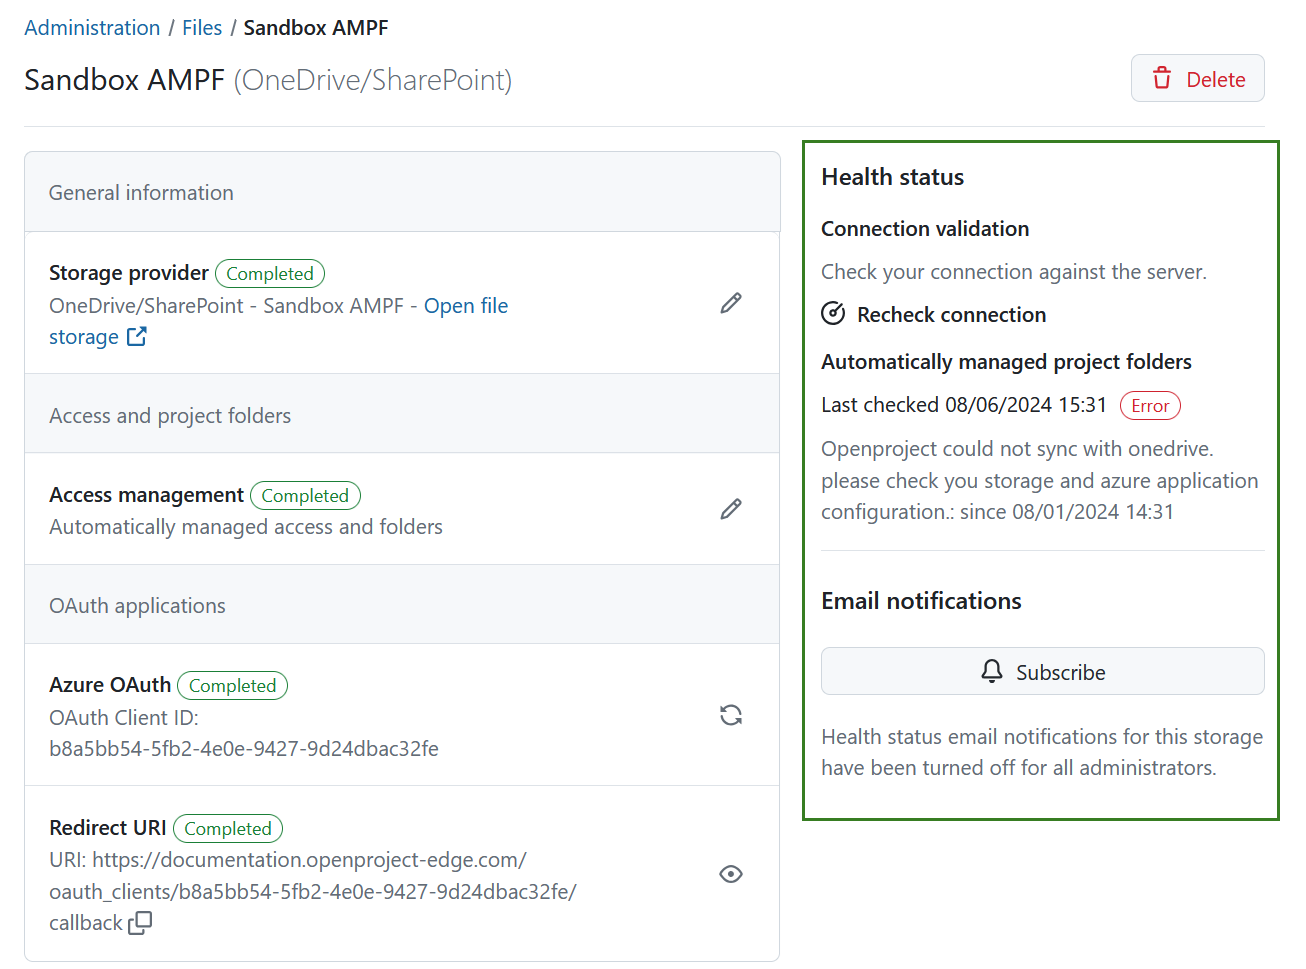
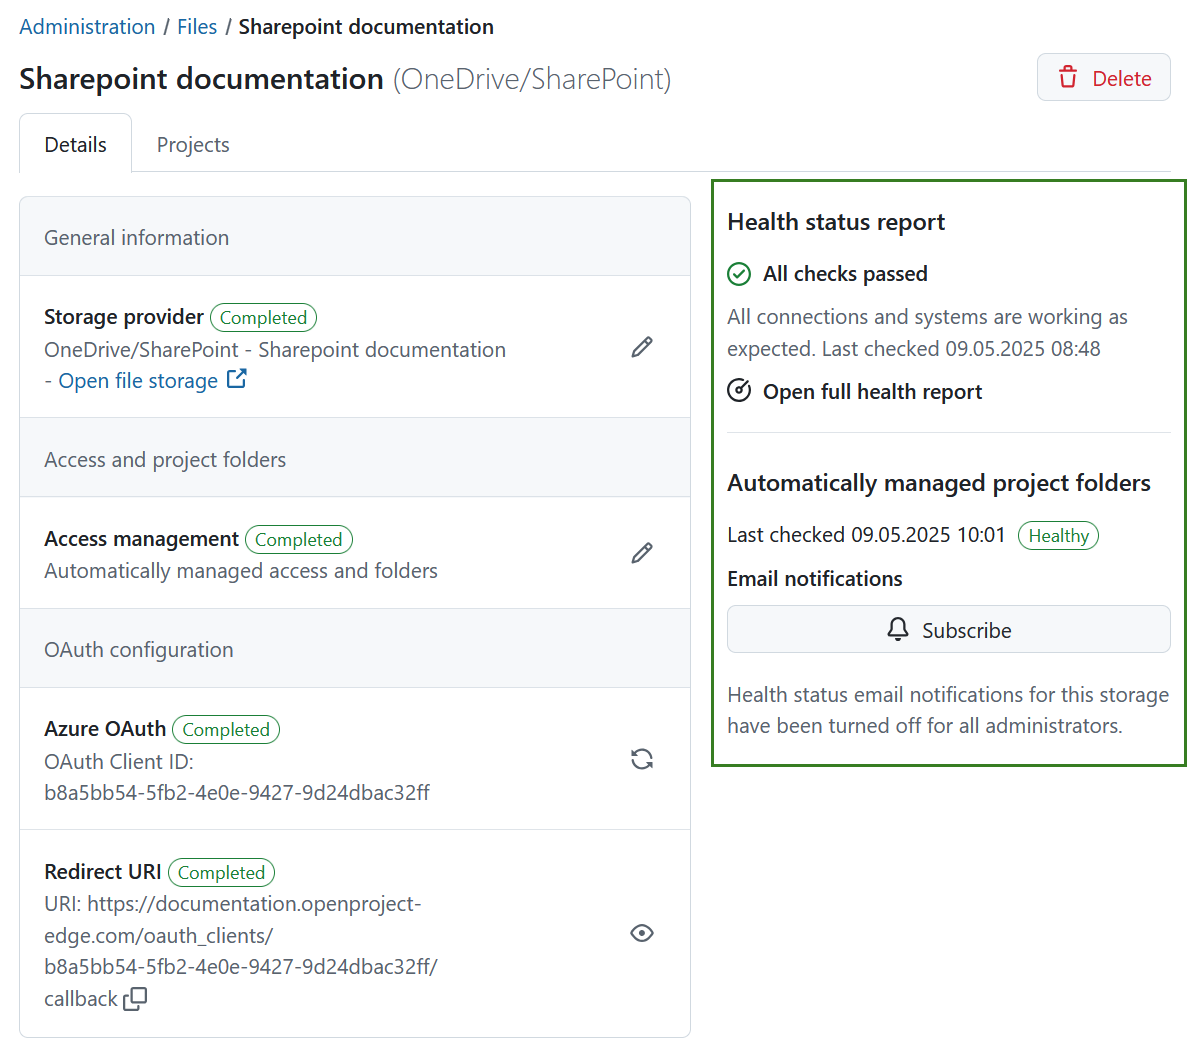
[#63798] File storages health status report  https://community.openproject.org/work_packages/63798
[#63798] File storages health status report

https://community.openproject.org/work_packages/63798

diff --git a/docs/system-admin-guide/files/external-file-storages/health-status/README.md b/docs/system-admin-guide/files/external-file-storages/health-status/README.md
@@ -16,12 +16,27 @@ storages*.  In addition, administrator can manually trigger a connection validat
 
 ### Connection validation for OneDrive/SharePoint 
 
-Every file storage for OneDrive/SharePoint has the ability to run a connection test. This test is triggered manually by
-clicking on **Recheck connection** in the sidebar on the right side of the file storage's details view. This check is
-available after the file storage is fully configured.
+Every file storage for OneDrive/SharePoint has the ability to run connection checks. This test is triggered manually by clicking on **Run checks now** in the sidebar on the right side of the file storage's details view. This check is available after the file storage is fully configured.
 
-![Recheck connection for OneDrive/SharePoint in OpenProject administration](openproject_file_storages_recheck_connection.png)
+![Recheck connection for OneDrive/SharePoint in OpenProject administration](openproject_file_storages_onedrive_run_checks_button.png)
 
+### Health report for OneDrive/SharePoint
+
+Once the check is finished, a full health report will be generated. Click **open full health report** to see the report in full detail and to download it. 
+
+![Link to open full health report for OneDrive/SharePoint file storage in OpenProject administration](openproject_file_storages_onedrive_open_full_health_report.png)
+
+Full health status report will give an overview of all checks that were performed grouped into three categories: 
+
+- Basic configuration
+- Authentication
+- Automatically managed project folder configuration (if activated for this file storage)
+
+In the top left corner you can **Re-run all checks** or **download the health (text format)** report by clicking respective buttons. 
+
+![Health status report for OneDrive/SharePoint integration in OpenProject administration](openproject_file_storages_onedrive_open_full_health_report_download_button.png)
+
+### Error codes 
 There are several possible errors that can occur during the connection test. The following table lists the error codes with a description of the possible reasons and suggested solutions.
 
 | Error code             | Error description                                            | Possible reasons                                             | Next steps and solutions                                     |
@@ -35,11 +50,27 @@ There are several possible errors that can occur during the connection test. The
 
 ### Connection validation for Nextcloud
 
-Same as OneDrive/SharePoint, every file storage for Nextcloud has the ability to run a connection test. This test is
-triggered manually by clicking on **Recheck connection** in the sidebar on the right side of the file storage's details
-view. This check is available after the file storage is fully configured.
+Same as OneDrive/SharePoint, every file storage for Nextcloud has the ability to run a connection test. This test is triggered manually by clicking on **Run checks now** in the sidebar on the right side of the file storage's details view. This check is available after the file storage is fully configured.
 
-![Recheck connection for Nextcloud in OpenProject administration](openproject_file_storages_recheck_connection_nextcloud.png)
+![Recheck connection for Nextcloud in OpenProject administration](openproject_file_storages_nextcloud_run_checks_link.png)
+
+### Health report for Nextcloud
+
+Once the check is finished, a full health report will be generated. Click **open full health report** to see the report in full detail and to download it. 
+
+![Link to open full health report for Nexctloud file storage in OpenProject administration](openproject_file_storages_nextcloud_open_full_health_report_button.png)
+
+Full health status report will give an overview of all checks that were performed grouped into three categories: 
+
+- Basic configuration
+- Authentication
+- Automatically managed project folder configuration (if activated for this file storage)
+
+In the top left corner you can **Re-run all checks** or **download the health (text format)** report by clicking respective buttons. 
+
+![Health status report for Nextcloud integration in OpenProject administration](openproject_file_storages_nextcloud_open_full_health_report_download_button.png)
+
+### Nextcloud integration error codes 
 
 There are several possible errors that can occur during the connection test. The following table lists the error codes
 with a description of the possible reasons and suggested solutions.
@@ -57,9 +88,7 @@ the [system admin guide](../../../../system-admin-guide/integrations/nextcloud/#
 
 ## Health checks for automatically managed project folders
 
-File storages with the *Automatically managed project folders* option will have reoccurring synchronization
-runs, that update the user permissions on the external system and report possible errors. An additional section is
-displayed for those file storages in the side bar.
+File storages with the *Automatically managed project folders* option will have reoccurring synchronization runs, that update the user permissions on the external system and report possible errors. An additional section is displayed for those file storages in the side bar.
 
 ![Health check for automatically managed folders in file storage integrations in OpenProject](openproject_file_storages_health_message.png)
 
